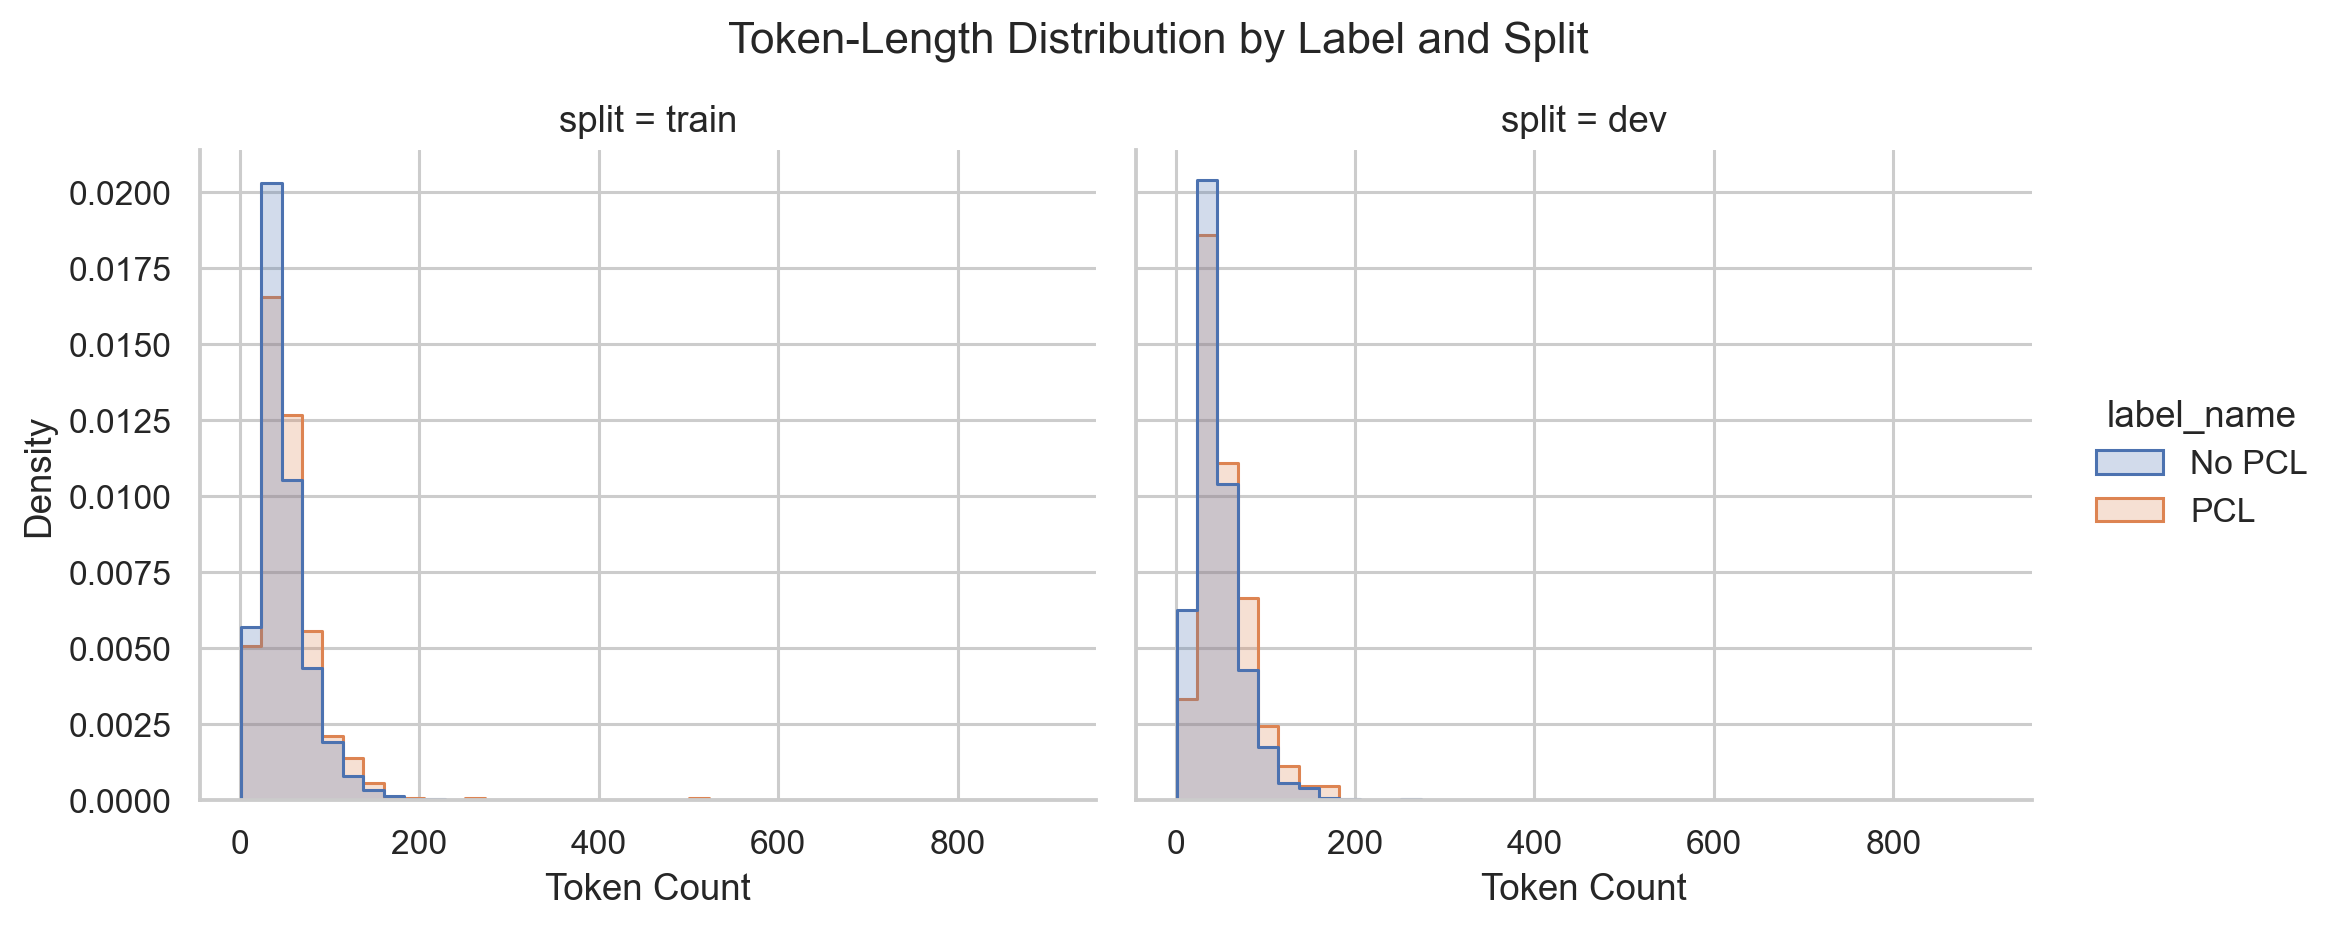
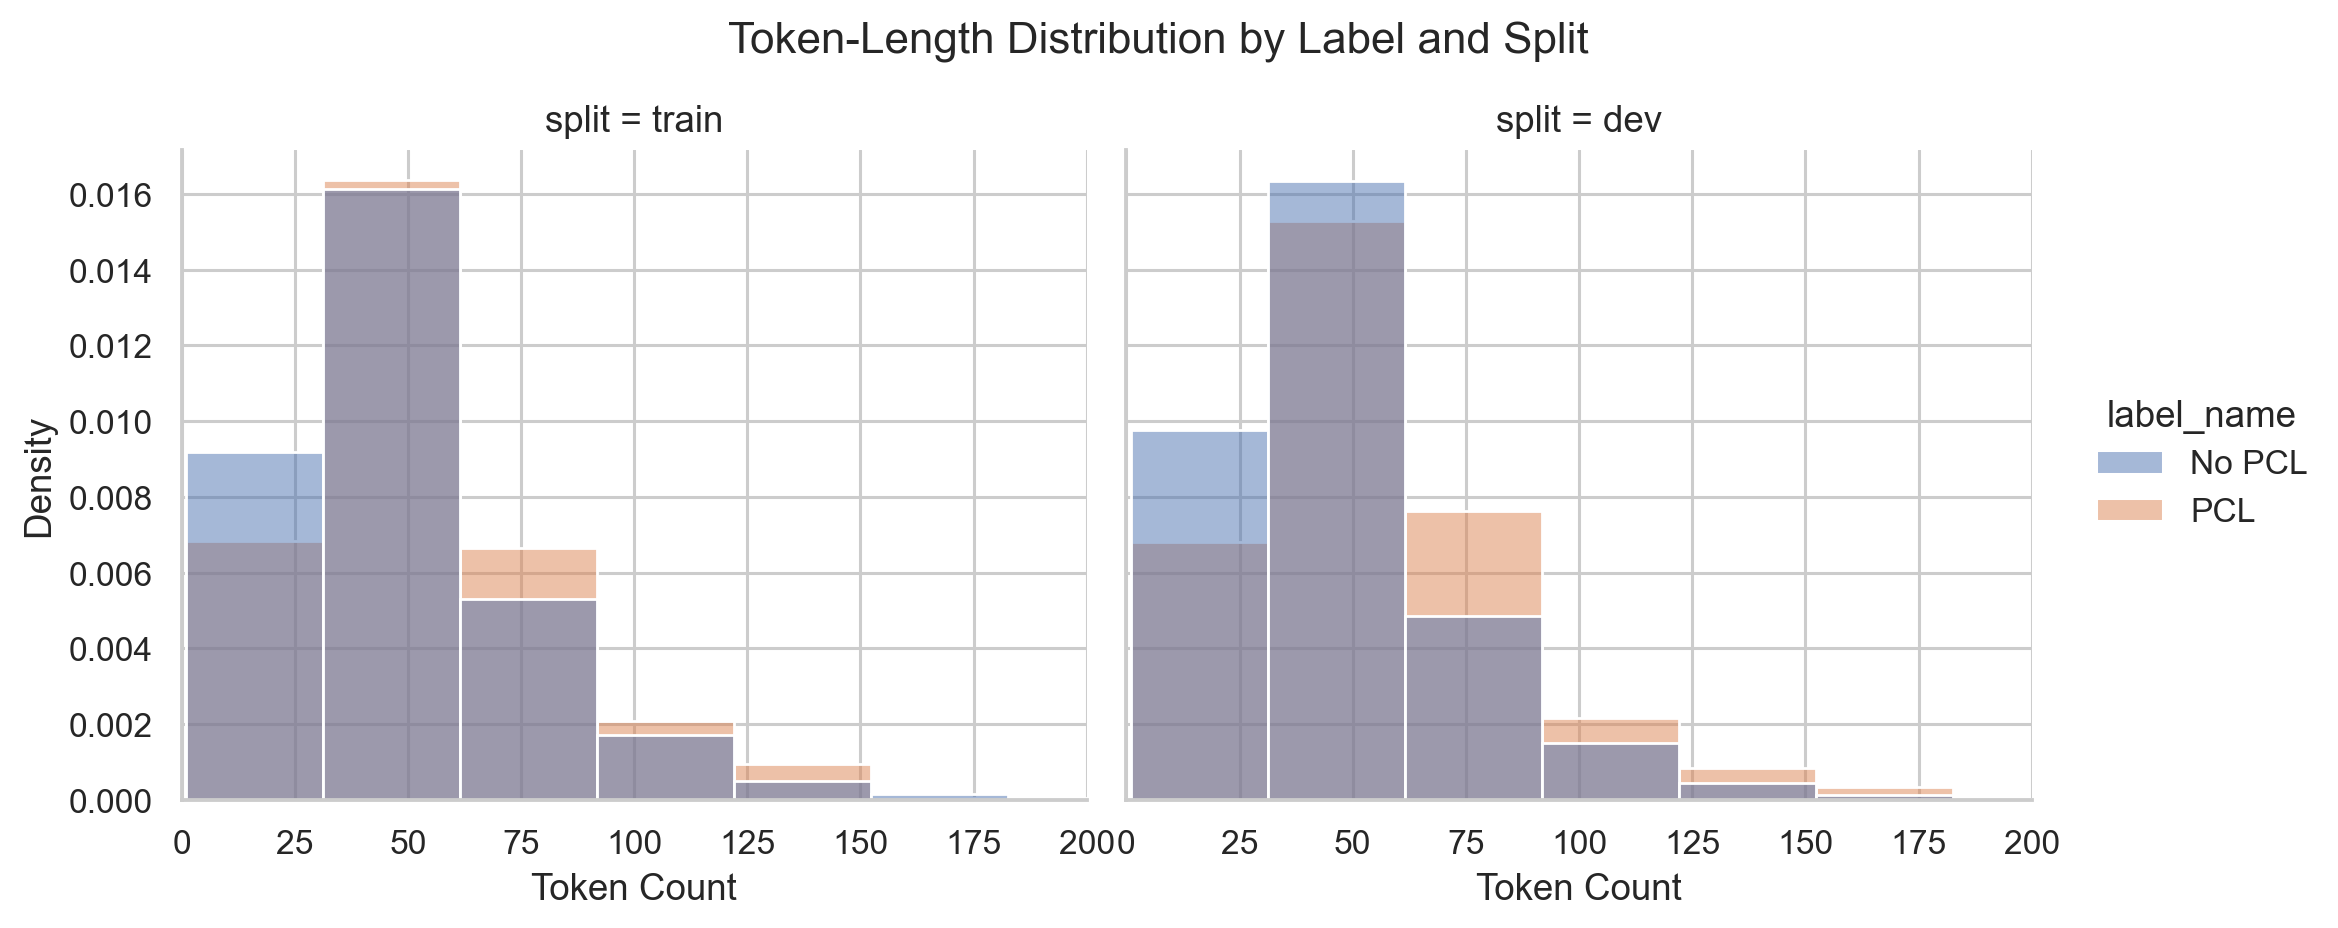
fix: stage 2 (eda.py, graph with bar and proper x-label)

diff --git a/src/stage2/eda.py b/src/stage2/eda.py
@@ -53,6 +53,11 @@ def _class_distribution(combined: pd.DataFrame, table_path: Path, figure_path: P
     sns.set_theme(style="whitegrid")
     plt.figure(figsize=(9, 5))
     chart = sns.barplot(data=table, x="split", y="count", hue="label_name")
+    
+    # Add count labels on top of bars
+    for container in chart.containers:
+        chart.bar_label(container)
+
     chart.set_title("Class Distribution by Split")
     chart.set_xlabel("Split")
     chart.set_ylabel("Count")
@@ -96,6 +101,11 @@ def _length_analysis(
     stats.to_csv(table_path, index=False)
 
     plot_df = combined[combined["split"].isin(["train", "dev"])].copy()
+    
+    # Calculate 99th percentile to set a reasonable x-axis limit
+    p99 = plot_df["token_count"].quantile(0.99)
+    x_limit = max(p99, 200)  # Changed 150 to 200 to ensure x-axis is at least 200
+
     sns.set_theme(style="whitegrid")
     g = sns.displot(
         data=plot_df,
@@ -103,14 +113,19 @@ def _length_analysis(
         hue="label_name",
         col="split",
         kind="hist",
-        bins=40,
-        element="step",
+        bins=30,
+        element="bars",
+        fill=True,
+        alpha=0.5,
         stat="density",
         common_norm=False,
         height=4,
         aspect=1.2,
     )
+    
     g.set_axis_labels("Token Count", "Density")
+    g.set(xlim=(0, x_limit)) # Sets the x-axis limit dynamically
+    
     g.figure.suptitle("Token-Length Distribution by Label and Split", y=1.05)
     g.savefig(figure_path, dpi=220, bbox_inches="tight")
     plt.close("all")
